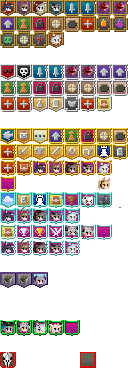
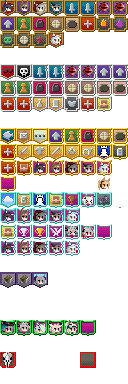
그라니 틀잡기

Changed region(s): [[0.5, 0.8125, 0.75, 0.875]]

diff --git a/Arrrknights/core/src/main/java/com/shatteredpixel/shatteredpixeldungeon/actors/mobs/npcs/Closure.java b/Arrrknights/core/src/main/java/com/shatteredpixel/shatteredpixeldungeon/actors/mobs/npcs/Closure.java
@@ -71,11 +71,10 @@ public class Closure extends NPC {
                                         public void call() {
                                             GameScene.show(new WndMessage(Messages.get(Closure.class, "fail_skin2", Dungeon.hero.heroClass.title())));
                                         }});}
-                                break;
-                            case 2: // 바병슼 스킨
-                                if (Badges.isUnlocked(Badges.Badge.GAMES_PLAYED_2)) {
-                                    if(!Badges.isUnlocked(Badges.Badge.SKIN_BABOSKADI)) {Badges.validateskadiskin();}
-                                    Dungeon.hero.CharSkin = Hero.SKADI;
+                            case 2: // 그라니 스킨
+                                if (Badges.isUnlocked(Badges.Badge.GAMES_PLAYED_1)) {
+                                    if(!Badges.isUnlocked(Badges.Badge.SKIN_GRN)) {Badges.validategrnskin();}
+                                    Dungeon.hero.CharSkin = Hero.GRANI;
                                     sprite.showStatus( CharSprite.POSITIVE, Messages.get(this, "hi"));
                                     break;
                                 } else {sprite.showStatus( CharSprite.NEGATIVE, Messages.get(this, "no"));
@@ -85,10 +84,10 @@ public class Closure extends NPC {
                                             GameScene.show(new WndMessage(Messages.get(Closure.class, "fail_skin3", Dungeon.hero.heroClass.title())));
                                         }});}
                                 break;
-                            case 3: // 쑤수로 스킨
-                                if (Badges.isUnlocked(Badges.Badge.ALL_POTIONS_IDENTIFIED)) {
-                                    if(!Badges.isUnlocked(Badges.Badge.SKIN_SUSUU)) {Badges.validatesusuuskin();}
-                                    Dungeon.hero.CharSkin = Hero.POSTGRAD;
+                            case 3: // 바병슼 스킨
+                                if (Badges.isUnlocked(Badges.Badge.GAMES_PLAYED_2)) {
+                                    if(!Badges.isUnlocked(Badges.Badge.SKIN_BABOSKADI)) {Badges.validateskadiskin();}
+                                    Dungeon.hero.CharSkin = Hero.SKADI;
                                     sprite.showStatus( CharSprite.POSITIVE, Messages.get(this, "hi"));
                                     break;
                                 } else {sprite.showStatus( CharSprite.NEGATIVE, Messages.get(this, "no"));
@@ -96,6 +95,19 @@ public class Closure extends NPC {
                                         @Override
                                         public void call() {
                                             GameScene.show(new WndMessage(Messages.get(Closure.class, "fail_skin4", Dungeon.hero.heroClass.title())));
+                                        }});}
+                                break;
+                            case 4: // 쑤수로 스킨
+                                if (Badges.isUnlocked(Badges.Badge.ALL_POTIONS_IDENTIFIED)) {
+                                    if(!Badges.isUnlocked(Badges.Badge.SKIN_SUSUU)) {Badges.validatesusuuskin();}
+                                    Dungeon.hero.CharSkin = Hero.SSR;
+                                    sprite.showStatus( CharSprite.POSITIVE, Messages.get(this, "hi"));
+                                    break;
+                                } else {sprite.showStatus( CharSprite.NEGATIVE, Messages.get(this, "no"));
+                                    Game.runOnRenderThread(new Callback() {
+                                        @Override
+                                        public void call() {
+                                            GameScene.show(new WndMessage(Messages.get(Closure.class, "fail_skin5", Dungeon.hero.heroClass.title())));
                                         }});}
                                 break;
                         }

diff --git a/Arrrknights/core/src/main/java/com/shatteredpixel/shatteredpixeldungeon/actors/mobs/npcs/SkinModel.java b/Arrrknights/core/src/main/java/com/shatteredpixel/shatteredpixeldungeon/actors/mobs/npcs/SkinModel.java
@@ -5,6 +5,7 @@ import com.shatteredpixel.shatteredpixeldungeon.actors.Char;
 import com.shatteredpixel.shatteredpixeldungeon.levels.RhodesLevel;
 import com.shatteredpixel.shatteredpixeldungeon.messages.Messages;
 import com.shatteredpixel.shatteredpixeldungeon.scenes.GameScene;
+import com.shatteredpixel.shatteredpixeldungeon.sprites.GraniSprite;
 import com.shatteredpixel.shatteredpixeldungeon.sprites.SkadiSprite;
 import com.shatteredpixel.shatteredpixeldungeon.sprites.SussurroSprite;
 import com.shatteredpixel.shatteredpixeldungeon.sprites.talrufightSprite;
@@ -31,9 +32,11 @@ public class SkinModel extends NPC {
            break;
            case 1: spriteClass = FnovaSprite.class;
            break;
-           case 2: spriteClass= SkadiSprite.class;
+           case 2: spriteClass= GraniSprite.class;
            break;
-           case 3: spriteClass= SussurroSprite.class;
+           case 3: spriteClass= SkadiSprite.class;
+           break;
+           case 4: spriteClass= SussurroSprite.class;
            break;
 
        }
@@ -71,7 +74,7 @@ public class SkinModel extends NPC {
     public void SkinChange()
     {
         skin_ch++;
-        if (skin_ch > 3) skin_ch = 0;
+        if (skin_ch > 4) skin_ch = 0;
 
         int ppos = this.pos;
         this.destroy();

diff --git a/Arrrknights/core/src/main/java/com/shatteredpixel/shatteredpixeldungeon/sprites/HeroSprite.java b/Arrrknights/core/src/main/java/com/shatteredpixel/shatteredpixeldungeon/sprites/HeroSprite.java
@@ -57,9 +57,11 @@ public class HeroSprite extends CharSprite {
 			break;
 			case 2: texture(Assets.Sprites.FNOVA);
 			break;
-			case 3: texture(Assets.Sprites.SKD); // 바병슼
+			case 3: texture(Assets.Sprites.GRN); // ㄱㄹㄴ!
+				// break;
+			case 4: texture(Assets.Sprites.SKD); // 바병슼
 			break;
-			case 4: texture(Assets.Sprites.SSR); // 수수로
+			case 5: texture(Assets.Sprites.SSR); // 수수로
 			break;
 		}
 		updateArmor();
@@ -81,9 +83,11 @@ public class HeroSprite extends CharSprite {
 				break;
 			case 2: texture(Assets.Sprites.FNOVA);
 				break;
-			case 3: texture(Assets.Sprites.SKD); // 바병슼
+			case 3: texture(Assets.Sprites.GRN); // 그라니
 				break;
-			case 4: texture(Assets.Sprites.SSR); // 수수로
+			case 4: texture(Assets.Sprites.SKD); // 바병슼
+				break;
+			case 5: texture(Assets.Sprites.SSR); // 수수로
 				break;
 		}
 		TextureFilm film = new TextureFilm(tiers(), Dungeon.hero.tier(), 36, 34);

diff --git a/Arrrknights/core/src/main/java/com/shatteredpixel/shatteredpixeldungeon/sprites/GraniSprite.java b/Arrrknights/core/src/main/java/com/shatteredpixel/shatteredpixeldungeon/sprites/GraniSprite.java
@@ -1,0 +1,38 @@
+package com.shatteredpixel.shatteredpixeldungeon.sprites;
+
+import com.shatteredpixel.shatteredpixeldungeon.Assets;
+import com.watabou.noosa.MovieClip;
+import com.watabou.noosa.TextureFilm;
+
+public class GraniSprite extends MobSprite{
+    public GraniSprite() {
+        super();
+
+        texture( Assets.Sprites.GRN );
+
+        TextureFilm frames = new TextureFilm( texture, 36, 36 );
+
+        idle = new MovieClip.Animation( 2, true );
+        idle.frames( frames, 50 );
+
+        run = new MovieClip.Animation( 15, false );
+        run.frames( frames, 50 );
+
+        attack = new MovieClip.Animation( 15, false );
+        attack.frames( frames, 50 );
+
+        zap = attack.clone();
+
+        die = new MovieClip.Animation( 8, false );
+        die.frames( frames, 50 );
+
+        play( idle.clone() );
+    }
+
+    @Override
+    public void idle() {
+        isMoving = false;
+        super.idle();
+    }
+
+}

diff --git a/Arrrknights/core/src/main/java/com/shatteredpixel/shatteredpixeldungeon/Badges.java b/Arrrknights/core/src/main/java/com/shatteredpixel/shatteredpixeldungeon/Badges.java
@@ -198,7 +198,8 @@ public class Badges {
 		SKIN_BABOSKADI(160),
 		SKIN_TALU(161),
 		SKIN_NOVA(162),
-		SKIN_SUSUU(163);
+		SKIN_SUSUU(163),
+		SKIN_GRN(164);
 
 		public boolean meta;
 
@@ -902,6 +903,11 @@ public class Badges {
 		displayBadge( badge );
 	}
 
+	public static void validategrnskin() {
+		Badge badge = Badge.SKIN_GRN;
+		displayBadge( badge );
+	}
+
 	public static void validatetaluskin() {
 		Badge badge = Badge.SKIN_TALU;
 		displayBadge( badge );
@@ -916,7 +922,7 @@ public class Badges {
 		Badge badge = Badge.SKIN_SUSUU;
 		displayBadge( badge );
 	}
-	
+
 	//necessary in order to display the happy end badge in the surface scene
 	public static void silentValidateHappyEnd() {
 		if (!local.contains( Badge.HAPPY_END )){

diff --git a/Arrrknights/core/src/main/java/com/shatteredpixel/shatteredpixeldungeon/actors/mobs/NewTengu.java b/Arrrknights/core/src/main/java/com/shatteredpixel/shatteredpixeldungeon/actors/mobs/NewTengu.java
@@ -237,7 +237,7 @@ public class NewTengu extends Mob {
         }
         Dungeon.level.drop(new Nullshield(), pos).sprite.drop(pos);
 
-        if (Dungeon.hero.CharSkin == Dungeon.hero.POSTGRAD) Dungeon.level.drop(new Pombbay(), pos).sprite.drop(pos);
+        if (Dungeon.hero.CharSkin == Dungeon.hero.SSR) Dungeon.level.drop(new Pombbay(), pos).sprite.drop(pos);
 
         GameScene.bossSlain();
 

diff --git a/Arrrknights/core/src/main/java/com/shatteredpixel/shatteredpixeldungeon/actors/hero/Hero.java b/Arrrknights/core/src/main/java/com/shatteredpixel/shatteredpixeldungeon/actors/hero/Hero.java
@@ -206,8 +206,9 @@ public class Hero extends Char {
     // 스킨 관련
     public static final int TALULAH = 1;
     public static final int F_NOVA = 2;
-    public static final int SKADI = 3;
-    public static final int POSTGRAD = 4;
+    public static final int GRANI = 3;
+    public static final int SKADI = 4;
+    public static final int SSR = 5;
 
     {
         actPriority = HERO_PRIO;

diff --git a/Arrrknights/core/src/main/java/com/shatteredpixel/shatteredpixeldungeon/actors/hero/HeroClass.java b/Arrrknights/core/src/main/java/com/shatteredpixel/shatteredpixeldungeon/actors/hero/HeroClass.java
@@ -380,8 +380,9 @@ public enum HeroClass {
 			switch (Dungeon.hero.CharSkin) {
 				case 1: return Assets.Sprites.TALRU_FIGHT;
 				case 2: return Assets.Sprites.FNOVA;
-				case 3: return Assets.Sprites.SKD;
-				case 4: return Assets.Sprites.SSR;
+				case 3: return Assets.Sprites.GRN;
+				case 4: return Assets.Sprites.SKD;
+				case 5: return Assets.Sprites.SSR;
 			}
 		}
 		switch (this) {

diff --git a/Arrrknights/core/src/main/java/com/shatteredpixel/shatteredpixeldungeon/Assets.java b/Arrrknights/core/src/main/java/com/shatteredpixel/shatteredpixeldungeon/Assets.java
@@ -409,6 +409,7 @@ public class Assets {
 		//스킨
 		public static final String TALRU_FIGHT	= "sprites/talru.png";
 		public static final String FNOVA	= "sprites/nova.png";
+		public static final String GRN	= "sprites/grani.png";
 		public static final String SKD	= "sprites/skadi.png";
 		public static final String SSR	= "sprites/sussurro.png";
 

diff --git a/Arrrknights/core/src/main/java/com/shatteredpixel/shatteredpixeldungeon/sprites/PrismaticSprite.java b/Arrrknights/core/src/main/java/com/shatteredpixel/shatteredpixeldungeon/sprites/PrismaticSprite.java
@@ -29,8 +29,8 @@ import com.watabou.noosa.TextureFilm;
 
 public class PrismaticSprite extends MobSprite {
 	
-	private static final int FRAME_WIDTH	= 32;
-	private static final int FRAME_HEIGHT	= 34;
+	private static final int FRAME_WIDTH	= 36;
+	private static final int FRAME_HEIGHT	= 36;
 	
 	public PrismaticSprite() {
 		super();
